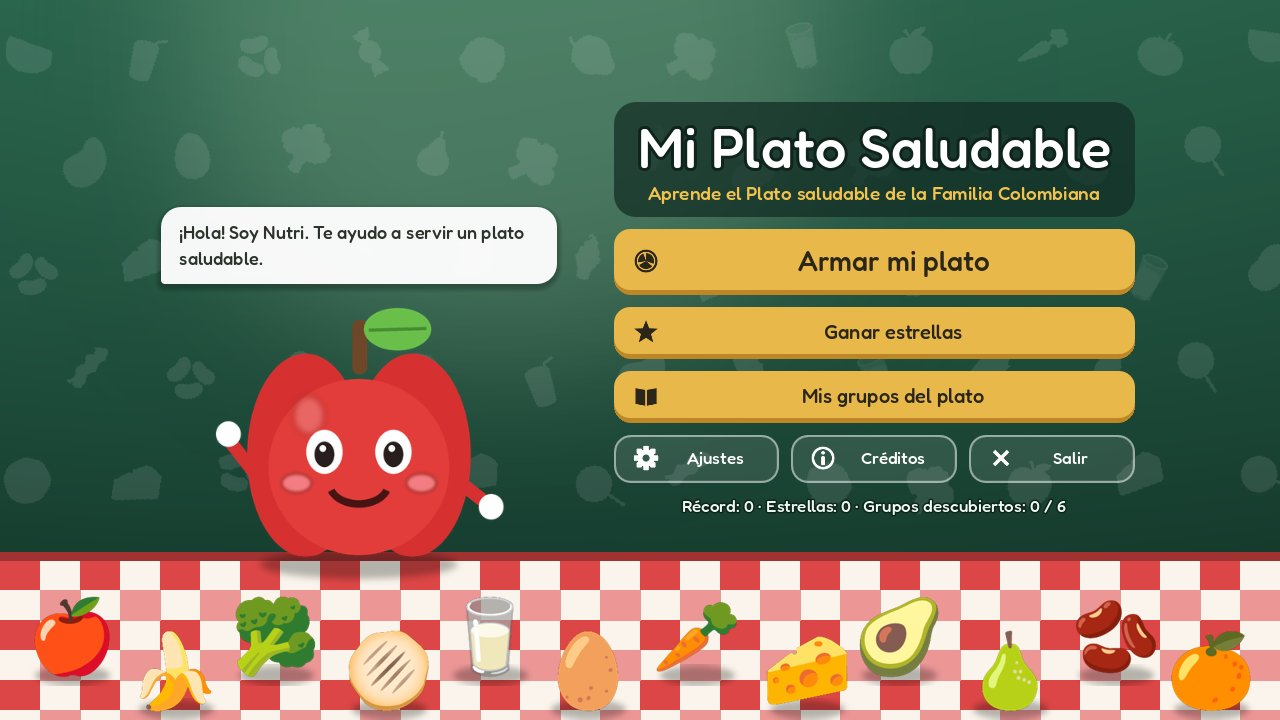
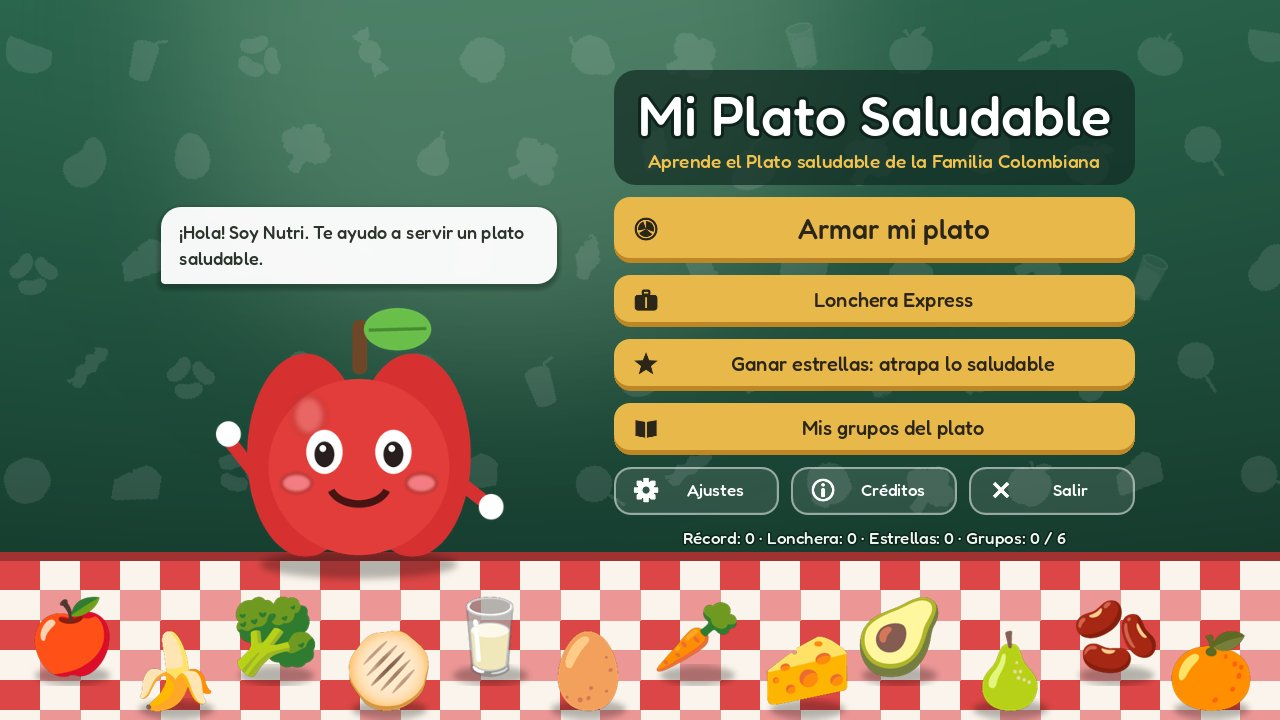
docs: update guide 9 documentation, DEVLOG and README

Changed region(s): [[0.4688, 0.0917, 0.9062, 0.7639]]

diff --git a/doc/guias/guia_09_resources.md b/doc/guias/guia_09_resources.md
@@ -1,0 +1,107 @@
+# Guía 9 · Interfaz Dinámica y Representación de Datos mediante Resources
+
+**Etapa del proyecto:** `lab-9` · tag `lab-9-final`
+
+## La idea: "Lonchera Express"
+
+La guía construye una pizza de dos mitades. En Mi Plato Saludable la mecánica se convirtió en un juego de pedidos: **Lonchera Express**.
+
+* Llegan **4 niños**, uno tras otro, cada uno con un pedido y un **tiempo límite**: *"¡Hoy tengo fútbol! Necesito agua"*, *"Nada de productos de paquete con sellos"*, *"No me gusta la leche, pero necesito calcio"*…
+* El jugador arma una **lonchera de 4 compartimentos**: bebida, fruta o verdura, plato principal y snack. Al tocar un compartimento, la lista muestra solo los alimentos de ese tipo.
+* Hay **31 alimentos**: 19 saludables y 12 **ultraprocesados o de comida rápida** (gaseosa, jugo de caja, refresco, papas fritas, hamburguesa, perro caliente, pizza, chocolatina, galletas y ponqué de paquete, dona y unas "gomitas de fruta" que son una trampa: no son fruta).
+* Los productos de paquete muestran los **sellos negros de advertencia** ("EXCESO EN AZÚCARES", "EXCESO EN GRASAS SATURADAS"), para que el niño aprenda a reconocerlos.
+* Cada lonchera entregada recibe de **1 a 3 estrellas**: una por entregarla, otra por cumplir el pedido y otra si está completa y sin ultraprocesados. Suma puntos, bonificación del pedido y **bonificación por rapidez**. Nutri explica qué estuvo bien y qué no.
+* Al final, el resumen de la ronda aplica las **estrellas del minijuego** y guarda el **récord**.
+
+Encaja con los mensajes de las Guías Alimentarias: incluir frutas enteras en cada comida y reducir los "productos de paquete", las comidas rápidas, las gaseosas y las bebidas azucaradas.
+
+### Mejora del minijuego: "Atrapa lo saludable"
+
+En *Ganar estrellas* ahora también caen gaseosas y ultraprocesados (tomados del mismo catálogo de Resources, con su sello). Atrapar una fruta o verdura suma; atrapar un ultraprocesado quita **una de 3 vidas**. Cada 3 aciertos el juego se acelera y caen más ultraprocesados. Si se gana sin perder vidas, la estrella vale más (estrella dorada, +40 en lugar de +30).
+
+## Equivalencias con la guía
+
+| Guía (pizza) | Proyecto (lonchera) | Archivo |
+|---|---|---|
+| `res://src/scenes/buying_process/assets` | `res://src/scenes/plate_process/assets/` (`lunchbox/`, `kids/`) | co-localización |
+| `IngredientData` (`id`, `display_name`, `texture`, `price`) | Igual, `price` = puntos saludables. **Además** `kind`, `healthy`, `seals`, `icon` (Reto 3), `group_id` y `tip` | `src/data/ingredient_data.gd` |
+| `src/data/ingredients/*.tres` | 31 alimentos | `src/data/ingredients/` |
+| `IngredientDatabase` + `ingredient_database.tres` | Igual | `src/data/` |
+| — | **`OrderData`** + `OrderDatabase`: 9 pedidos de niños, también como Resources | `src/data/order_data.gd`, `src/data/orders/` |
+| `GlobalManager.ingredient_database` / `ingredients` | Igual (preload + propiedad con `get`); además `order_database` | `src/core/global_manager.gd` |
+| `buy_panel_interactive` | `lunchbox_interactive` | `src/scenes/plate_process/lunchbox_interactive.tscn/.gd` |
+| `PizzaComposition` con `LeftFlavor` / `RightFlavor`, `Button` flat, `Selection` | `LunchboxComposition` con `SlotBebida`, `SlotFruta`, `SlotPrincipal`, `SlotSnack` (los de la derecha con **Flip H**), cada uno con `Button` flat, `Selection`, nombre y sellos | `lunchbox_composition.gd` |
+| `enum PizzaHalf { LEFT, RIGHT }` | `enum LunchboxSlot { BEBIDA, FRUTA, PRINCIPAL, SNACK }` | |
+| `pizza_selection` / `pizza_total` | `lunchbox_selection` (4 compartimentos) / `lunchbox_total` | `global_manager.gd` |
+| `EventBus.ingredient_selected(id, half)` | `EventBus.ingredient_selected(id, slot)` | `event_bus.gd` |
+| `EventBus.pizza_total_changed` | `EventBus.lunchbox_total_changed` | `event_bus.gd` |
+| `animate_pizza_update()` / `update_selection_visual()` | `animate_lunchbox_update()` / `update_selection_visual()` | `lunchbox_composition.gd` |
+| `purchase_invoice_interactive` + `PurchaseSuccessPopup` | `lunchbox_summary` (resultados de la ronda) + `LunchboxSuccessPopup` | `lunchbox_summary.tscn/.gd` |
+| `get_best_coupon` / `remove_coupon` | `get_best_bonus` / `remove_bonus` (las estrellas del Lab 5, sin cambios) | `global_manager.gd` |
+| Botón *Compra interactiva* en el menú | Botón **Lonchera Express** (ButtonNav, ícono de lonchera) | `menu_panel.tscn` |
+
+El plato y su resumen **no se modificaron**: las experiencias conviven, como pide la guía.
+
+## Cómo se aplicó, parte por parte
+
+### Parte 0 · Imágenes
+`gen_lab9_v2.py` (fuera del proyecto) dibuja el cuerpo de la lonchera, un compartimento vacío y un compartimento por alimento (**un solo alimento por imagen**), los 9 niños, los sellos y las estrellas. Los compartimentos de la derecha usan la misma imagen con **Flip H**.
+
+### Partes 1 y 2 · Datos
+```gdscript
+class_name IngredientData
+extends Resource
+@export var id: String
+@export var display_name: String
+@export var texture: Texture2D
+@export var price: int                       # puntos saludables
+@export_group("Lonchera Express")
+@export_enum("bebida", "fruta", "principal", "snack") var kind: String = "fruta"
+@export var healthy: bool = true
+@export var seals: PackedStringArray = []    # "azucares", "sodio", "grasas"
+@export_group("Presentación y contenido")
+@export var icon: Texture2D                  # Reto 3
+@export var group_id: String
+@export_multiline var tip: String
+```
+Los pedidos usan la misma idea: `OrderData` tiene el niño, su avatar, el texto del pedido, una **regla** (`contiene`, `sin_sellos`, `sin_azucar`, `min_puntos`, `solo_saludable`), el tiempo límite y los textos de éxito y fallo. Las reglas las evalúa `GlobalManager.order_fulfilled()`.
+
+**Reto 1:** primero se crearon los 19 alimentos saludables; luego se agregaron los **12 ultraprocesados sin tocar el código** (solo nuevos `.tres` en el catálogo). Lo mismo vale para los pedidos.
+
+### Parte 3 · Lista dinámica
+`_build_list(kind)` recorre `GlobalManager.ingredients` y crea un `Button` por cada alimento del compartimento elegido, conectado con `bind(ingredient)`. El botón muestra ícono, **nombre y puntos** (Reto 2) y, si los tiene, los **sellos** del empaque. Al cambiar de compartimento la lista se vuelve a generar.
+
+**Ajuste de UX (Lab 8):** el `ScrollContainer` solo envuelve la lista; el total y los botones quedan fijos. *Entregar lonchera* usa el estado **Disabled** del Theme hasta que los cuatro compartimentos estén llenos (o se acabe el tiempo, que la entrega sola).
+
+### Parte 4 · Compartimentos y estado
+* `LunchboxComposition` recibe el `IngredientData` por **llamada directa** (misma interfaz) y emite `EventBus.ingredient_selected(id, slot)`.
+* `GlobalManager` guarda el id en `lunchbox_selection[slot]`, recalcula `lunchbox_total` con el `price` y emite `lunchbox_total_changed`.
+* Al elegir, la selección pasa sola al siguiente compartimento vacío.
+* Al entregar, `GlobalManager.deliver_lunchbox()` califica la lonchera (`evaluate_lunchbox()`), guarda el resultado de la ronda, vacía la lonchera y pasa al siguiente niño.
+
+### Parte 4.6 · Resultados
+`lunchbox_summary` muestra una fila por niño (avatar, puntos y estrellas), el total de estrellas, un consejo general de Nutri, la mejor estrella del minijuego (`get_best_bonus`), el total y el récord. *Confirmar ronda* consume la estrella, guarda el récord y muestra **LunchboxSuccessPopup**.
+
+### Partes 5 y 6 · Retroalimentación
+`Selection` (ColorRect con `mouse_filter = Ignore`) hace un destello amarillo y queda suave en el compartimento activo; el alimento nuevo aparece con `animate_lunchbox_update()`. Además: el niño "llega" con un salto, la barra de tiempo se pone roja y el número late en los últimos 10 segundos, Nutri salta de alegría con un alimento saludable y se sacude con un ultraprocesado, las estrellas del resultado se encienden una a una con sonido y hay confeti con 3 estrellas.
+
+### Reto 4 · Conservar la composición
+Si el niño sale al menú y vuelve, el pedido, el tiempo y la lonchera siguen como los dejó: `_restore_from_state()` reconstruye los compartimentos desde `GlobalManager.lunchbox_selection` y la ronda desde `GlobalManager.lunch_round`.
+
+## Reflexión final
+
+* **¿Ventaja de separar los datos de la interfaz?** El contenido (qué alimentos hay, sus puntos, sellos, imagen y consejo; qué piden los niños) se edita en el Inspector sin tocar la interfaz; los mismos datos los usan la lista, la lonchera, la calificación, el resumen y hasta el minijuego.
+* **¿Ventaja de generar los elementos automáticamente?** Se agregaron 12 ultraprocesados sin crear botones a mano ni cambiar código; la lista por compartimento sale de un filtro sobre el catálogo.
+* **¿Diferencia entre estado y representación?** El estado es `lunchbox_selection` y `lunch_round` en el GlobalManager; la representación son las texturas, sellos, etiquetas y animaciones. Por eso la escena se puede reconstruir al volver (Reto 4).
+* **¿Qué permite que la interfaz crezca?** Catálogos (`IngredientDatabase`, `OrderDatabase`), contenedores que se organizan solos (`VBoxContainer` en un `ScrollContainer`) y funciones que crean el botón a partir de un `IngredientData`.
+* **¿Cuándo usar objetos de datos reutilizables?** Cuando los datos son contenido del juego que crece o lo edita alguien que no programa: alimentos, pedidos, niveles, preguntas. Un docente podría agregar alimentos típicos de su región o pedidos nuevos.
+
+## Verificación realizada
+
+`tests/test_lab9.gd` (con clics reales en Xvfb), **50 comprobaciones, 0 fallas**: catálogos de 31 alimentos y 9 pedidos como Resources; 12 ultraprocesados con sellos; 5 o más opciones por compartimento; botón del menú; ronda de 4 pedidos con tiempo que corre; lista generada solo con bebidas; sellos y puntos en los botones; clic real en compartimentos; paso automático al siguiente compartimento; reemplazo; total 135; regla del pedido; Reto 4; entrega con 3 estrellas y bonificaciones; lonchera de ultraprocesados con 1 estrella y la explicación de Nutri; entrega automática al acabarse el tiempo; resultados con una fila por niño, estrella aplicada y récord guardado; las cinco reglas de pedido; un alimento nuevo en el catálogo aparece solo; y el minijuego (3 vidas, ultraprocesado quita una vida, aceleración, derrota sin vidas, caen ambos tipos, un bot que esquiva gana, valor de la estrella según las vidas). Regresión de las Guías 6, 7 y 8: superada.
+
+| Lonchera Express | Resultado de un pedido |
+|---|---|
+| ![](../img/lonchera.jpg) | ![](../img/lonchera_resultado.jpg) |
+| **Resultados de la ronda** | **Atrapa lo saludable** |
+| ![](../img/lonchera_resumen.jpg) | ![](../img/minijuego.jpg) |

diff --git a/README.md b/README.md
@@ -9,7 +9,7 @@
 **Universidad Antonio Nariño (UAN)**<br>
 Facultad de Ingeniería de Sistemas y Computación
 
-![Godot](https://img.shields.io/badge/Godot-4.7-478CBF?logo=godotengine&logoColor=white) ![GDScript](https://img.shields.io/badge/GDScript-2.0%20tipado-355570) ![Renderer](https://img.shields.io/badge/Renderer-Compatibility-2e7d32) ![Avance](https://img.shields.io/badge/Avance-Gu%C3%ADa%208%20de%209-f2c14e) ![Web](https://img.shields.io/badge/Exportaci%C3%B3n-Web%20HTML5-e44d26?logo=html5&logoColor=white)
+![Godot](https://img.shields.io/badge/Godot-4.7-478CBF?logo=godotengine&logoColor=white) ![GDScript](https://img.shields.io/badge/GDScript-2.0%20tipado-355570) ![Renderer](https://img.shields.io/badge/Renderer-Compatibility-2e7d32) ![Avance](https://img.shields.io/badge/Avance-Gu%C3%ADa%209%20de%209-f2c14e) ![Web](https://img.shields.io/badge/Exportaci%C3%B3n-Web%20HTML5-e44d26?logo=html5&logoColor=white)
 
 </div>
 
@@ -23,15 +23,15 @@ El plato aparece en el centro con sus **6 grupos de alimentos** y los alimentos 
 
 Este repositorio es el proyecto integrador del semestre 2026-2: el juego crece guía tras guía siguiendo buenas prácticas de ingeniería de software.
 
-![Mi Plato Saludable](doc/img/plato_guia.jpg)
+![Mi Plato Saludable](doc/img/lonchera.jpg)
 
 ## 🎮 Cómo se juega
 
-- **Armar mi plato**: **arrastra** cada alimento hasta su división del plato. La primera vez, una **mano guía** te muestra cómo.
-- Acierto: **+10**, sonido y racha (x3, x5…). Error: *¡Ups!*, el alimento vuelve a su puesto y recibes una pista.
-- ¿Dudas? Toca **?**: la ayuda explica las reglas y detiene el tiempo. Completa los 12 alimentos en 150 segundos.
-- **Ganar estrellas**: minijuego de la canasta (A / D, flechas o botones en pantalla).
-- **Mis grupos del plato**: álbum de los grupos descubiertos. **Ajustes**: pistas y sonidos. Tu progreso se guarda solo.
+- **Armar mi plato**: **arrastra** cada alimento hasta su división del plato. La primera vez, una **mano guía** te muestra cómo. Toca **?** para la ayuda.
+- **Lonchera Express**: llegan 4 niños con un pedido y poco tiempo. Toca un compartimento (bebida, fruta, plato principal o snack) y elige un alimento de la lista. ¡Ojo con los ultraprocesados y sus sellos negros!
+- Cada lonchera gana de 1 a 3 estrellas: por entregarla, por cumplir el pedido y por ser completa y sin ultraprocesados. Entregar rápido da puntos extra.
+- **Ganar estrellas: Atrapa lo saludable**: atrapa frutas y verduras y esquiva gaseosas y ultraprocesados (3 vidas). Las estrellas suman puntos al plato o a la lonchera.
+- **Mis grupos del plato**: álbum de los grupos descubiertos. **Ajustes**: pistas y sonidos. Tu progreso y tus récords se guardan solos.
 
 ## 🥗 Los 6 grupos del plato
 
@@ -56,7 +56,7 @@ Este repositorio es el proyecto integrador del semestre 2026-2: el juego crece g
 | 6 | Máquinas de estado y Tweens | El plato interactivo: arrastrar cada alimento a su grupo. | ✅ |
 | 7 | Vertical Slice, persistencia y Web | Progreso guardado, diseño final, álbum de grupos y versión Web. | ✅ |
 | 8 | Evaluación y mejora de UX | Prueba de uso, Theme con estados, íconos, menú con la mascota Nutri, ayuda, mano guía, sonidos y popup de confirmación. | ✅ |
-| 9 | Interfaz dinámica con Resources | *Arma tu lonchera saludable*: alimentos como `Resource`, botones generados por código y lonchera de dos compartimentos. | ⏳ |
+| 9 | Interfaz dinámica con Resources | *Lonchera Express*: alimentos y pedidos como `Resource`, lista generada por código, lonchera de 4 compartimentos y minijuego *Atrapa lo saludable*. | ✅ |
 
 Cada guía se desarrolla en su propia rama `lab-N`, se fusiona en `main` y se marca con la etiqueta `lab-N-final`.
 
@@ -77,6 +77,9 @@ Cada guía se desarrolla en su propia rama `lab-N`, se fusiona en `main` y se ma
 - **`ui_theme.tres`** reemplaza al tema anterior: estados Normal / Hover / Pressed / Disabled y variaciones `SecondaryButton` y `Popup*`.
 - **`AudioManager`** (Autoload): reproduce los sonidos que se piden por el `EventBus`; se puede apagar en Ajustes.
 - Cada alimento emite `state_changed`; el controlador de la partida muestra **instrucciones progresivas** según el estado.
+- **`IngredientData`** (`Resource`): cada alimento de la lonchera es un archivo `.tres` con nombre, textura, puntos, compartimento, sellos y consejo.
+- **`IngredientDatabase`** y **`OrderDatabase`**: catálogos de 31 alimentos y 9 pedidos; agregar uno nuevo es crear un `.tres`, sin tocar código.
+- La lista de botones y la lonchera se **generan desde los datos**; `EventBus.ingredient_selected` y `lunchbox_total_changed` comunican la elección.
 
 ## 📁 Estructura de Directorios del Repositorio
 
@@ -87,10 +90,14 @@ src/
 │   ├── fonts/
 │   ├── foods/
 │   └── ui/
-│       └── icons/
+│       ├── icons/
+│       └── seals/
 ├── components/
 │   └── navigation/
 ├── core/
+├── data/
+│   ├── ingredients/
+│   └── orders/
 └── scenes/
     ├── album/
     ├── config/
@@ -99,6 +106,7 @@ src/
     │   └── catch_food/
     ├── main/
     └── plate_process/
+        ├── assets/
         └── plate_game/
 doc/
 ├── adr/      Registros de decisiones de arquitectura (ADR)
@@ -138,7 +146,7 @@ Para ver el proyecto tal como quedó al terminar una guía: `git checkout lab-N-
 
 ## 🏷 Versiones
 
-`lab-1` · `lab-2` · `lab-2-final` · `lab-3-final` · `lab-4-final` · `lab-5-final` · `lab-6-final` · `lab-7-final` · `lab-8-final`
+`lab-1` · `lab-2` · `lab-2-final` · `lab-3-final` · `lab-4-final` · `lab-5-final` · `lab-6-final` · `lab-7-final` · `lab-8-final` · `lab-9-final`
 
 ## 📚 Documentación
 
@@ -150,8 +158,9 @@ Para ver el proyecto tal como quedó al terminar una guía: `git checkout lab-N-
 - [`doc/guias/guia_06_fsm_tweens.md`](doc/guias/guia_06_fsm_tweens.md): qué pide la Guía 6 y cómo se aplicó al juego.
 - [`doc/guias/guia_07_vertical_slice.md`](doc/guias/guia_07_vertical_slice.md): qué pide la Guía 7 y cómo se aplicó al juego.
 - [`doc/guias/guia_08_ux.md`](doc/guias/guia_08_ux.md): qué pide la Guía 8 y cómo se aplicó al juego.
+- [`doc/guias/guia_09_resources.md`](doc/guias/guia_09_resources.md): qué pide la Guía 9 y cómo se aplicó al juego.
 - [`doc/ux/`](doc/ux/): prueba de uso, análisis Situación / Mejora / Resultado e iconografía (Guía 8).
-- Decisiones de arquitectura: [ADR-001](doc/adr/ADR-001-colocalizacion.md), [ADR-002](doc/adr/ADR-002-event-bus-navegacion.md), [ADR-003](doc/adr/ADR-003-global-manager-button-nav.md), [ADR-004](doc/adr/ADR-004-gamificacion-recompensas.md), [ADR-005](doc/adr/ADR-005-fsm-animaciones.md), [ADR-006](doc/adr/ADR-006-theme-ux.md).
+- Decisiones de arquitectura: [ADR-001](doc/adr/ADR-001-colocalizacion.md), [ADR-002](doc/adr/ADR-002-event-bus-navegacion.md), [ADR-003](doc/adr/ADR-003-global-manager-button-nav.md), [ADR-004](doc/adr/ADR-004-gamificacion-recompensas.md), [ADR-005](doc/adr/ADR-005-fsm-animaciones.md), [ADR-006](doc/adr/ADR-006-theme-ux.md), [ADR-007](doc/adr/ADR-007-resources-interfaz-dinamica.md).
 
 ## 📜 Créditos y licencias
 
@@ -160,15 +169,16 @@ Para ver el proyecto tal como quedó al terminar una guía: `git checkout lab-N-
 - Tipografía: **Fredoka** (SIL Open Font License 1.1), licencia en `src/assets/fonts/OFL_Fredoka.txt`.
 - Fondo, logo, suelo y paredes: creados para este proyecto.
 - Íconos de interfaz, mascota Nutri, fondo del menú y efectos de sonido: creados para este proyecto.
+- Sellos de advertencia: dibujados para el proyecto a partir del etiquetado frontal de advertencia que se usa en Colombia.
 
 ## 🖼 Galería
 
 | | |
 |:---:|:---:|
-| ![Menú con la mascota Nutri](doc/img/menu.jpg)<br>*Menú con la mascota Nutri* | ![Mano guía e instrucciones progresivas](doc/img/plato_guia.jpg)<br>*Mano guía e instrucciones progresivas* |
-| ![Acierto: +10 y racha](doc/img/plato.jpg)<br>*Acierto: +10 y racha* | ![Error con pista](doc/img/error.jpg)<br>*Error con pista* |
-| ![Ayuda: el tiempo se detiene](doc/img/ayuda.jpg)<br>*Ayuda: el tiempo se detiene* | ![Popup de confirmación](doc/img/popup_plato.jpg)<br>*Popup de confirmación* |
-| ![Mis grupos del plato](doc/img/album.jpg)<br>*Mis grupos del plato* | ![Ajustes con sonido](doc/img/ajustes.jpg)<br>*Ajustes con sonido* |
+| ![Menú con Lonchera Express](doc/img/menu.jpg)<br>*Menú con Lonchera Express* | ![Lonchera Express: pedido con tiempo y 4 compartimentos](doc/img/lonchera.jpg)<br>*Lonchera Express: pedido con tiempo y 4 compartimentos* |
+| ![Calificación del pedido (1 a 3 estrellas)](doc/img/lonchera_resultado.jpg)<br>*Calificación del pedido (1 a 3 estrellas)* | ![Resultados de la ronda](doc/img/lonchera_resumen.jpg)<br>*Resultados de la ronda* |
+| ![Atrapa lo saludable: esquiva los ultraprocesados](doc/img/minijuego.jpg)<br>*Atrapa lo saludable: esquiva los ultraprocesados* | ![¡Ronda terminada!](doc/img/popup_lonchera.jpg)<br>*¡Ronda terminada!* |
+| ![Plato: acierto con +10 y racha](doc/img/plato.jpg)<br>*Plato: acierto con +10 y racha* | ![Mano guía e instrucciones progresivas](doc/img/plato_guia.jpg)<br>*Mano guía e instrucciones progresivas* |
 
 ## 👨💻 Autor
 

diff --git a/DEVLOG.md b/DEVLOG.md
@@ -152,3 +152,34 @@ El Vertical Slice fue integrado, refinado y exportado para Web; queda listo para
 ### Estado Final
 
 Se realizó una evaluación de la experiencia de usuario y se aplicaron mejoras visuales y de comunicación sobre el proyecto.
+
+## [2026-10-19] - Laboratorio 9: Interfaz Dinámica y Representación de Datos
+
+### Actividades Realizadas
+
+* Se creó `IngredientData` mediante `Resource` (`id`, `display_name`, `texture`, `price` = puntos saludables, más `kind`, `healthy`, `seals`, `icon`, `group_id` y `tip`).
+* Se crearon recursos para 31 alimentos: primero los 19 saludables y luego 12 ultraprocesados y de comida rápida sin modificar el código (Reto 1).
+* Se creó el catálogo `IngredientDatabase` (`ingredient_database.tres`) y el acceso `GlobalManager.ingredients`.
+* Se crearon los pedidos de los niños como Resources (`OrderData`, `OrderDatabase`, 9 pedidos con reglas).
+* Se implementó una interfaz auto-poblada: `lunchbox_interactive` genera un botón con ícono, nombre, puntos y sellos por cada alimento del compartimento elegido (Retos 2 y 3).
+* Se implementó la selección de los cuatro compartimentos de la lonchera (`LunchboxComposition`, botones planos, Flip H).
+* Se incorporó la selección de alimentos con `EventBus.ingredient_selected` y el estado `lunchbox_selection` / `lunchbox_total`.
+* Se actualizó visualmente la composición de la lonchera y se reconstruye al volver a la escena (Reto 4).
+* Se incorporó retroalimentación visual mediante `Tween` (destello de selección, aparición del alimento, llegada del niño, estrellas una a una, reacción de Nutri y aviso de poco tiempo).
+* **Lonchera Express:** ronda de 4 pedidos con tiempo límite, calificación de 1 a 3 estrellas, bonificación por pedido y por rapidez, resultados con la estrella del minijuego, récord guardado y `LunchboxSuccessPopup`.
+* **Atrapa lo saludable:** el minijuego ahora también lanza ultraprocesados del catálogo; quitan vidas, el juego se acelera y una partida perfecta da una estrella dorada.
+
+### Desafíos y Soluciones
+
+* **Desafío:** Los íconos de los alimentos se veían como siluetas oscuras en los botones.
+* **Solución:** El Theme del Lab 8 tiñe los íconos; en los botones generados se anulan los colores de ícono con blanco.
+* **Desafío:** Con muchos alimentos, el botón para entregar quedaba fuera de la vista dentro del `ScrollContainer`.
+* **Solución:** El scroll solo envuelve la lista y además se filtra por compartimento; el total y los botones quedan fijos.
+* **Desafío:** En el minijuego cada spawner dejaba de lanzar alimentos al llegar a su límite y, si el niño no atrapaba lo suficiente, la partida nunca terminaba.
+* **Solución:** Cada alimento libera su cupo al salir del árbol (`tree_exited`) y la partida termina al lanzar 30 alimentos.
+* **Desafío:** Al abrir el proyecto por primera vez, el Theme intentaba cargar los íconos de los interruptores antes de que Godot los importara.
+* **Solución:** Los íconos de los interruptores se asignan en la escena de Ajustes y no en el Theme.
+
+### Estado Final
+
+Se implementó una interfaz dinámica para seleccionar alimentos y modificar visualmente la composición de una lonchera, convertida en el juego de pedidos Lonchera Express.

diff --git a/doc/ux/iconografia.md b/doc/ux/iconografia.md
@@ -16,5 +16,9 @@
 | *Ganar estrellas* | Recompensa | **Estrella** | Ícono + texto | Qué se gana | No |
 | *Mis grupos del plato* | Colección / álbum | **Libro** | Ícono + texto | Qué contiene | No |
 | *Sonidos del juego* | Activar / silenciar | **Parlante / interruptor** | Interruptor verde (encendido) y gris (apagado) | Qué se activa | No |
+| *Lonchera Express* (Lab 9) | Ir a la lonchera | **Lonchera** | Ícono + texto | Qué se arma | No |
+| Alimentos de la lista (Lab 9) | Elegir un alimento | **Imagen del alimento** (`IngredientData.icon`) | Ícono a color a la izquierda, sin teñir | Nombre y puntos saludables | No: el niño compara puntos |
+| Sellos de advertencia (Lab 9) | Avisar exceso de azúcar o grasa | **Octágono negro** (convención de los empaques en Colombia) | A la derecha del botón y en el compartimento | — | Sí: es el mismo símbolo del empaque real |
+| Estrellas del pedido (Lab 9) | Calificar la lonchera | **1 a 3 estrellas** | Se encienden una a una en el resultado | Lo que estuvo bien o mal | Sí |
 
 **Criterio general:** el público son niños de primaria que todavía están aprendiendo a leer y a reconocer convenciones. Por eso casi todos los botones conservan **ícono + texto**; solo la **X** de una ventana y el **?** de ayuda funcionan sin texto.
